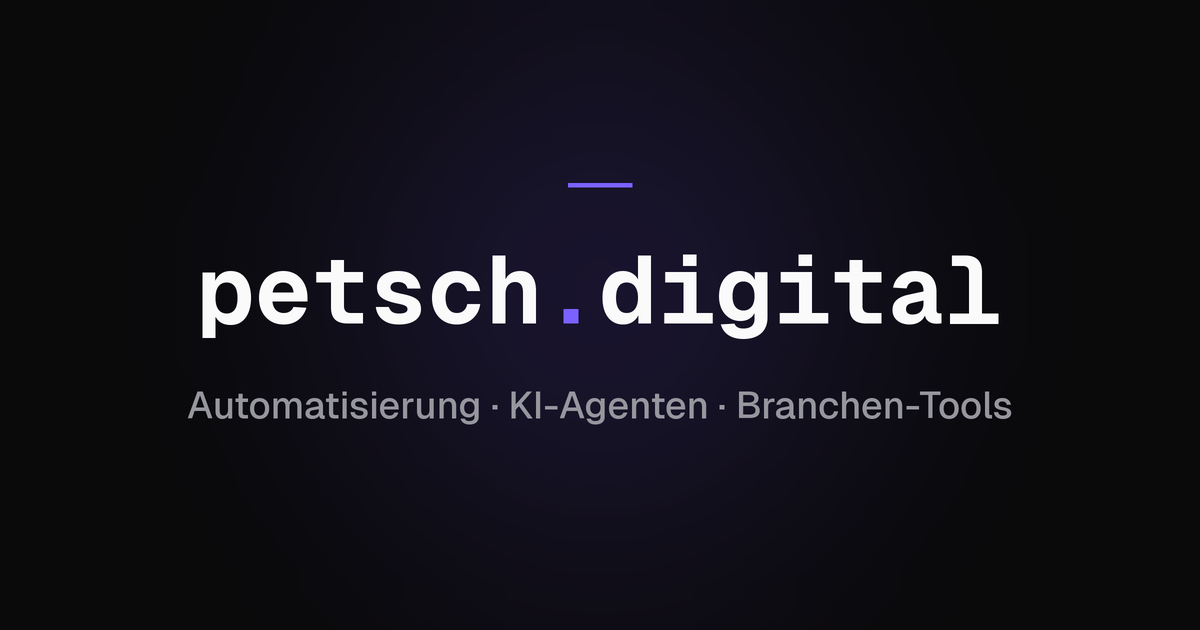
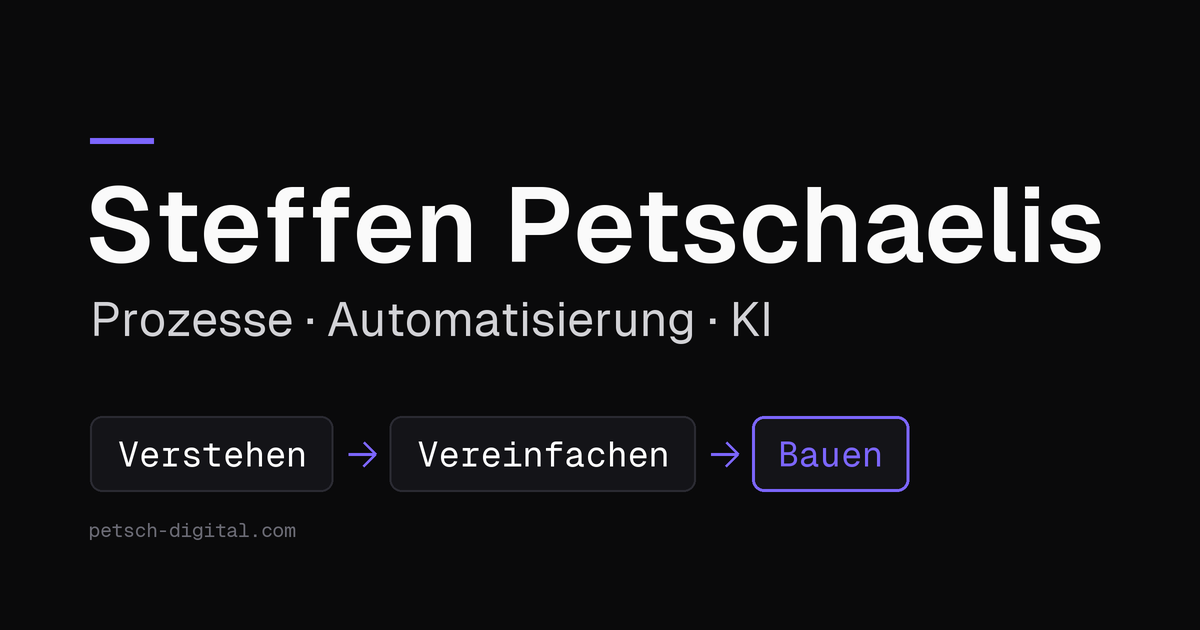
Impressum und Datenschutz aktualisiert, 404-Seite, neues Teilen-Bild, Titel und Meta vereinheitlicht

diff --git a/datenschutz.html b/datenschutz.html
@@ -11,11 +11,11 @@
   <link rel="manifest" href="/site.webmanifest">
   <meta name="theme-color" content="#0A0A0B">
 
-  <title>Datenschutzerklärung — Petsch Digital</title>
+  <title>Datenschutzerklärung | Petsch Digital</title>
   <meta name="description" content="Datenschutzerklärung der Petsch Digital LLC nach DSGVO.">
   <meta name="robots" content="noindex,follow">
 
-  <meta property="og:title" content="Datenschutzerklärung — Petsch Digital">
+  <meta property="og:title" content="Datenschutzerklärung | Petsch Digital">
   <meta property="og:description" content="Datenschutzerklärung der Petsch Digital LLC nach DSGVO.">
   <meta property="og:type" content="website">
   <link rel="canonical" href="https://petsch-digital.com/datenschutz">
@@ -45,7 +45,7 @@
       <div class="container">
         <span class="eyebrow">Rechtliches</span>
         <h1 class="h1-long">Datenschutzerklärung</h1>
-        <p class="legal-stand">Stand: 11. Mai 2026</p>
+        <p class="legal-stand">Stand: 11. Oktober 2026</p>
 
         <article class="legal-content">
 
@@ -57,7 +57,6 @@
           <ul class="index">
             <li><a href="#m716">Präambel</a></li>
             <li><a href="#m3">Verantwortlicher</a></li>
-            <li><a href="#m1641">Vertreter in der Europäischen Union</a></li>
             <li><a href="#mOverview">Übersicht der Verarbeitungen</a></li>
             <li><a href="#m2427">Maßgebliche Rechtsgrundlagen</a></li>
             <li><a href="#m27">Sicherheitsmaßnahmen</a></li>
@@ -82,9 +81,6 @@
           <p>Vertretungsberechtigte Personen: Steffen Petschaelis</p>
           <p>E-Mail-Adresse: <a href="mailto:kontakt@petsch-digital.com">kontakt@petsch-digital.com</a></p>
           <p>EIN: 92-0697982</p>
-
-          <h2 id="m1641">Vertreter in der Europäischen Union</h2>
-          <p>Prighter EU Rep GmbH<br>Schellinggasse 3/10<br>1010 Wien<br>Österreich</p>
 
           <h2 id="mOverview">Übersicht der Verarbeitungen</h2>
           <p>Die nachfolgende Übersicht fasst die Arten der verarbeiteten Daten und die Zwecke ihrer Verarbeitung zusammen und verweist auf die betroffenen Personen.</p>
@@ -234,8 +230,7 @@
           <p><strong>Weitere Hinweise zu Verarbeitungsprozessen, Verfahren und Diensten:</strong></p>
           <ul class="m-elements">
             <li><strong>Kontaktformular:</strong> Bei Kontaktaufnahme über unser Kontaktformular, per E-Mail oder anderen Kommunikationswegen, verarbeiten wir die uns übermittelten personenbezogenen Daten zur Beantwortung und Bearbeitung des jeweiligen Anliegens. Dies umfasst in der Regel Angaben wie Name, Kontaktinformationen und gegebenenfalls weitere Informationen, die uns mitgeteilt werden und zur angemessenen Bearbeitung erforderlich sind. Wir nutzen diese Daten ausschließlich für den angegebenen Zweck der Kontaktaufnahme und Kommunikation.</li>
-            <li><strong>Tally Forms:</strong> Externes Formular-Tool für die Aufnahme von Kontaktanfragen und Erstgespräch-Buchungen. Beim Ausfüllen eines Formulars werden die eingegebenen Daten (Name, E-Mail-Adresse, Anfrage-Inhalte) direkt an Tally übermittelt und dort verarbeitet. <strong>Dienstanbieter:</strong> Tally B.V., Belgien; <strong>Website:</strong> <a href="https://tally.so" target="_blank" rel="noopener">https://tally.so</a>; <strong>Datenschutzerklärung:</strong> <a href="https://tally.so/help/privacy-policy" target="_blank" rel="noopener">https://tally.so/help/privacy-policy</a>.</li>
-            <li><strong>Google Workspace:</strong> E-Mail-Kommunikation über die Adresse kontakt@petsch-digital.com läuft über Google Workspace. Google verarbeitet hierbei Kommunikationsdaten und Metadaten als Auftragsverarbeiter. <strong>Dienstanbieter:</strong> Google Ireland Limited, Gordon House, Barrow Street, Dublin 4, Irland; <strong>Datenschutzerklärung:</strong> <a href="https://policies.google.com/privacy" target="_blank" rel="noopener">https://policies.google.com/privacy</a>; <strong>Auftragsverarbeitungsvertrag:</strong> <a href="https://cloud.google.com/terms/data-processing-addendum" target="_blank" rel="noopener">https://cloud.google.com/terms/data-processing-addendum</a>.</li>
+            <li><strong>Google Workspace:</strong> E-Mail-Kommunikation über Adressen der Domain petsch-digital.com läuft über Google Workspace. Google verarbeitet hierbei Kommunikationsdaten und Metadaten als Auftragsverarbeiter. <strong>Dienstanbieter:</strong> Google Ireland Limited, Gordon House, Barrow Street, Dublin 4, Irland; <strong>Datenschutzerklärung:</strong> <a href="https://policies.google.com/privacy" target="_blank" rel="noopener">https://policies.google.com/privacy</a>; <strong>Auftragsverarbeitungsvertrag:</strong> <a href="https://cloud.google.com/terms/data-processing-addendum" target="_blank" rel="noopener">https://cloud.google.com/terms/data-processing-addendum</a>.</li>
           </ul>
 
           <h2 id="m638">Werbliche Kommunikation via E-Mail, Post, Fax oder Telefon</h2>

diff --git a/vvl.html b/vvl.html
@@ -11,14 +11,25 @@
   <link rel="manifest" href="/site.webmanifest">
   <meta name="theme-color" content="#0A0A0B">
 
-  <title>Vertragsverlängerung automatisch erinnern – VVL-Tool für Mobilfunk-Fachhändler | Petsch Digital</title>
+  <title>Vertragsverlängerung automatisch erinnern: VVL-Automatik für Mobilfunk-Fachhändler | Petsch Digital</title>
   <meta name="description" content="Erinnere deine Mobilfunkkunden automatisch an die Vertragsverlängerung (VVL). Das System erkennt fällige Verträge und schlägt die SMS vor, du gibst sie frei. Kein Systemwechsel. Läuft bei zwei Vodafone-Fachhändlern.">
 
-  <meta property="og:title" content="Vertragsverlängerung automatisch erinnern – VVL-Tool für Mobilfunk-Fachhändler">
+  <meta property="og:title" content="Vertragsverlängerung automatisch erinnern: VVL-Automatik für Mobilfunk-Fachhändler">
   <meta property="og:description" content="Erinnere deine Mobilfunkkunden automatisch an die Vertragsverlängerung. Das System erkennt fällige Verträge, du gibst jede SMS selbst frei. Kein Systemwechsel.">
   <meta property="og:type" content="website">
   <link rel="canonical" href="https://petsch-digital.com/vvl">
   <meta property="og:url" content="https://petsch-digital.com/vvl">
+  <meta property="og:image" content="https://petsch-digital.com/og-image.png">
+  <meta property="og:image:width" content="1200">
+  <meta property="og:image:height" content="630">
+  <meta property="og:image:alt" content="Steffen Petschaelis: Prozesse, Automatisierung und KI">
+  <meta property="og:site_name" content="Petsch Digital">
+  <meta property="og:locale" content="de_DE">
+
+  <meta name="twitter:card" content="summary_large_image">
+  <meta name="twitter:title" content="Vertragsverlängerung automatisch erinnern: VVL-Automatik für Mobilfunk-Fachhändler">
+  <meta name="twitter:description" content="Erinnere deine Mobilfunkkunden automatisch an die Vertragsverlängerung. Das System erkennt fällige Verträge, du gibst jede SMS selbst frei. Kein Systemwechsel.">
+  <meta name="twitter:image" content="https://petsch-digital.com/og-image.png">
 
   <link rel="preload" href="/assets/Fonts/Geist/Geist-Regular.ttf" as="font" type="font/ttf" crossorigin>
 
@@ -294,7 +305,7 @@
           </details>
           <details>
             <summary>Was kostet das?</summary>
-            <p>Einmalige Einrichtung auf deinen Shop plus ein laufender Betrag für Betrieb und Wartung. Der Umfang hängt davon ab, womit du arbeitest und welche Funktionen du brauchst, deshalb nennen wir den Preis im Gespräch und nicht pauschal vorab.</p>
+            <p>Einmalige Einrichtung auf deinen Shop plus ein laufender Betrag für Betrieb und Wartung. Der Umfang hängt davon ab, womit du arbeitest und welche Funktionen du brauchst, deshalb nenne ich dir den Preis im Gespräch und nicht pauschal vorab.</p>
           </details>
           <details>
             <summary>Wie lange dauert die Einrichtung?</summary>
@@ -382,7 +393,7 @@
         "name": "Was kostet das?",
         "acceptedAnswer": {
           "@type": "Answer",
-          "text": "Einmalige Einrichtung auf deinen Shop plus ein laufender Betrag für Betrieb und Wartung. Der Umfang hängt davon ab, womit du arbeitest und welche Funktionen du brauchst, deshalb nennen wir den Preis im Gespräch und nicht pauschal vorab."
+          "text": "Einmalige Einrichtung auf deinen Shop plus ein laufender Betrag für Betrieb und Wartung. Der Umfang hängt davon ab, womit du arbeitest und welche Funktionen du brauchst, deshalb nenne ich dir den Preis im Gespräch und nicht pauschal vorab."
         }
       },
       {

diff --git a/impressum.html b/impressum.html
@@ -11,11 +11,11 @@
   <link rel="manifest" href="/site.webmanifest">
   <meta name="theme-color" content="#0A0A0B">
 
-  <title>Impressum — Petsch Digital</title>
+  <title>Impressum | Petsch Digital</title>
   <meta name="description" content="Impressum der Petsch Digital LLC.">
   <meta name="robots" content="noindex,follow">
 
-  <meta property="og:title" content="Impressum — Petsch Digital">
+  <meta property="og:title" content="Impressum | Petsch Digital">
   <meta property="og:description" content="Impressum der Petsch Digital LLC.">
   <meta property="og:type" content="website">
  <link rel="canonical" href="https://petsch-digital.com/impressum">
@@ -45,7 +45,7 @@
       <div class="container">
         <span class="eyebrow">Rechtliches</span>
         <h1>Impressum</h1>
-        <p class="legal-stand">Stand: 11. Mai 2026</p>
+        <p class="legal-stand">Stand: 11. Oktober 2026</p>
 
         <article class="legal-content">
           <h2>Diensteanbieter</h2>
@@ -60,11 +60,11 @@
           <h2>US-Steuernummer (EIN)</h2>
           <p>92-0697982</p>
 
-          <h2>Online-Streitbeilegung</h2>
-          <p>Die Europäische Kommission stellt eine Plattform zur Online-Streitbeilegung bereit, die unter <a href="https://ec.europa.eu/consumers/odr/" target="_blank" rel="noopener">https://ec.europa.eu/consumers/odr/</a> erreichbar ist. Wir sind nicht verpflichtet und nicht bereit, an einem Streitbeilegungsverfahren vor einer Verbraucherschlichtungsstelle teilzunehmen.</p>
+          <h2>Verbraucherstreitbeilegung</h2>
+          <p>Wir sind nicht verpflichtet und nicht bereit, an einem Streitbeilegungsverfahren vor einer Verbraucherschlichtungsstelle teilzunehmen.</p>
 
           <h2>Haftung für Inhalte</h2>
-          <p>Als Diensteanbieter sind wir gemäß § 7 Abs. 1 TMG für eigene Inhalte auf diesen Seiten nach den allgemeinen Gesetzen verantwortlich. Nach §§ 8 bis 10 TMG sind wir als Diensteanbieter jedoch nicht verpflichtet, übermittelte oder gespeicherte fremde Informationen zu überwachen oder nach Umständen zu forschen, die auf eine rechtswidrige Tätigkeit hinweisen.</p>
+          <p>Als Diensteanbieter sind wir gemäß § 7 Abs. 1 DDG für eigene Inhalte auf diesen Seiten nach den allgemeinen Gesetzen verantwortlich. Nach §§ 8 bis 10 DDG sind wir als Diensteanbieter jedoch nicht verpflichtet, übermittelte oder gespeicherte fremde Informationen zu überwachen oder nach Umständen zu forschen, die auf eine rechtswidrige Tätigkeit hinweisen.</p>
 
           <h2>Haftung für Links</h2>
           <p>Unser Angebot enthält Links zu externen Webseiten Dritter, auf deren Inhalte wir keinen Einfluss haben. Deshalb können wir für diese fremden Inhalte auch keine Gewähr übernehmen. Für die Inhalte der verlinkten Seiten ist stets der jeweilige Anbieter oder Betreiber der Seiten verantwortlich.</p>

diff --git a/404.html b/404.html
@@ -1,15 +1,61 @@
 <!DOCTYPE html>
 <html lang="de">
 <head>
-<meta charset="UTF-8">
-<title>404 - Seite nicht gefunden | Petsch Digital</title>
-<link rel="stylesheet" href="/assets/css/style.css">
+  <meta charset="UTF-8">
+  <meta name="viewport" content="width=device-width, initial-scale=1">
+  <!-- Favicon -->
+  <link rel="icon" type="image/svg+xml" href="/favicon.svg">
+  <link rel="icon" type="image/png" sizes="32x32" href="/assets/favicon/favicon-32.png">
+  <link rel="icon" type="image/png" sizes="16x16" href="/assets/favicon/favicon-16.png">
+  <link rel="apple-touch-icon" sizes="180x180" href="/apple-touch-icon.png">
+  <link rel="manifest" href="/site.webmanifest">
+  <meta name="theme-color" content="#0A0A0B">
+
+  <title>Seite nicht gefunden | Petsch Digital</title>
+  <meta name="robots" content="noindex">
+
+  <link rel="preload" href="/assets/Fonts/Geist/Geist-Regular.ttf" as="font" type="font/ttf" crossorigin>
+
+  <link rel="stylesheet" href="/assets/css/style.css">
 </head>
 <body>
-<main style="max-width: 600px; margin: 8rem auto; padding: 2rem; text-align: center;">
-<h1>404</h1>
-<p>Die Seite, die du suchst, existiert nicht.</p>
-<a href="/">Zur Startseite</a>
-</main>
+  <a class="skip-link" href="#main">Zum Inhalt springen</a>
+
+  <header class="site-header">
+    <div class="container-wide site-header__inner">
+      <a href="/" class="site-header__logo">petsch<span class="wordmark-dot">.</span>digital</a>
+      <nav class="site-nav" aria-label="Hauptnavigation">
+        <a href="/#profil">Profil</a>
+        <a href="/#werdegang">Werdegang</a>
+        <a href="/arbeitsproben">Arbeitsproben</a>
+        <a href="/#kontakt">Kontakt</a>
+      </nav>
+    </div>
+  </header>
+
+  <main id="main">
+    <section class="section">
+      <div class="container">
+        <span class="eyebrow">404</span>
+        <h1>Seite nicht gefunden</h1>
+        <p style="margin-top: var(--space-6);">Diese Adresse gibt es nicht oder nicht mehr.</p>
+        <div class="cta-row" style="margin-top: var(--space-8);">
+          <a class="btn" href="/">Zur Startseite &rarr;</a>
+          <a class="btn btn--secondary" href="/arbeitsproben">Arbeitsproben ansehen</a>
+        </div>
+      </div>
+    </section>
+  </main>
+
+  <footer class="site-footer">
+    <div class="container-wide site-footer__bar">
+      <p class="site-footer__legal">© 2026 Petsch Digital LLC · 2880 W Oakland Park Blvd, Ste 225C, Oakland Park, FL 33311, USA</p>
+      <ul class="site-footer__links">
+        <li><a href="https://www.linkedin.com/in/petsch-digital/" target="_blank" rel="noopener">LinkedIn</a></li>
+        <li><a href="/datenschutz">Datenschutz</a></li>
+        <li><a href="/impressum">Impressum</a></li>
+      </ul>
+    </div>
+  </footer>
 </body>
 </html>

diff --git a/index.html b/index.html
@@ -21,6 +21,9 @@
   <meta property="og:image" content="https://petsch-digital.com/og-image.png">
   <meta property="og:image:width" content="1200">
   <meta property="og:image:height" content="630">
+  <meta property="og:image:alt" content="Steffen Petschaelis: Prozesse, Automatisierung und KI">
+  <meta property="og:site_name" content="Petsch Digital">
+  <meta property="og:locale" content="de_DE">
 
   <meta name="twitter:card" content="summary_large_image">
   <meta name="twitter:title" content="Steffen Petschaelis | Petsch Digital">
@@ -179,7 +182,8 @@
         "image": "https://petsch-digital.com/assets/img/portrait.jpg",
         "jobTitle": "Gründer von Petsch Digital",
         "worksFor": { "@id": "https://petsch-digital.com/#organization" },
-        "knowsAbout": ["Prozessanalyse", "Prozessautomatisierung", "KI-Automatisierung", "Vertrieb", "Einzelhandel", "Mobilfunk-Fachhandel", "Python", "Django", "n8n", "PostgreSQL"]
+        "knowsAbout": ["Prozessanalyse", "Prozessautomatisierung", "KI-Automatisierung", "Vertrieb", "Einzelhandel", "Mobilfunk-Fachhandel", "Python", "Django", "n8n", "PostgreSQL"],
+        "sameAs": ["https://www.linkedin.com/in/petsch-digital/"]
       },
       {
         "@type": "Organization",
@@ -255,7 +259,7 @@
         <div class="muster-grid">
           <article class="card muster-card">
             <h3 class="muster-card__title">Abläufe verstehen</h3>
-            <p class="muster-card__desc">Vertrieb, Beratung und Kassenprozesse in drei Partnermodellen: Franchise, Partneragentur und Fachhandel. Dabei habe ich gelernt, wie stark ein Ablauf von der Organisation abhängt, in der er läuft.</p>
+            <p class="muster-card__desc">Vertrieb, Beratung und Kassenprozesse in einem Unternehmen, das in dieser Zeit drei Partnermodelle durchlief: Franchise, Partneragentur und Fachhandel. Dabei habe ich gelernt, wie stark ein Ablauf von der Organisation abhängt, in der er läuft.</p>
           </article>
 
           <article class="card muster-card">

diff --git a/arbeitsproben.html b/arbeitsproben.html
@@ -21,6 +21,9 @@
   <meta property="og:image" content="https://petsch-digital.com/og-image.png">
   <meta property="og:image:width" content="1200">
   <meta property="og:image:height" content="630">
+  <meta property="og:image:alt" content="Steffen Petschaelis: Prozesse, Automatisierung und KI">
+  <meta property="og:site_name" content="Petsch Digital">
+  <meta property="og:locale" content="de_DE">
 
   <meta name="twitter:card" content="summary_large_image">
   <meta name="twitter:title" content="Arbeitsproben | Steffen Petschaelis">

diff --git a/assets/css/style.css b/assets/css/style.css
@@ -194,6 +194,13 @@ h1 {
   }
 }
 
+/* Ab 480px: Obergrenze, damit das Wort in die Textspalte passt (616px Spalte, Wort = 10,4em) */
+@media (min-width: 480px) {
+  h1.h1-long {
+    font-size: clamp(2.5rem, 5vw, 3.5rem);
+  }
+}
+
 h2 {
   font-size: clamp(1.75rem, 3vw, 2.5rem);
   letter-spacing: var(--letter-spacing-tight);
